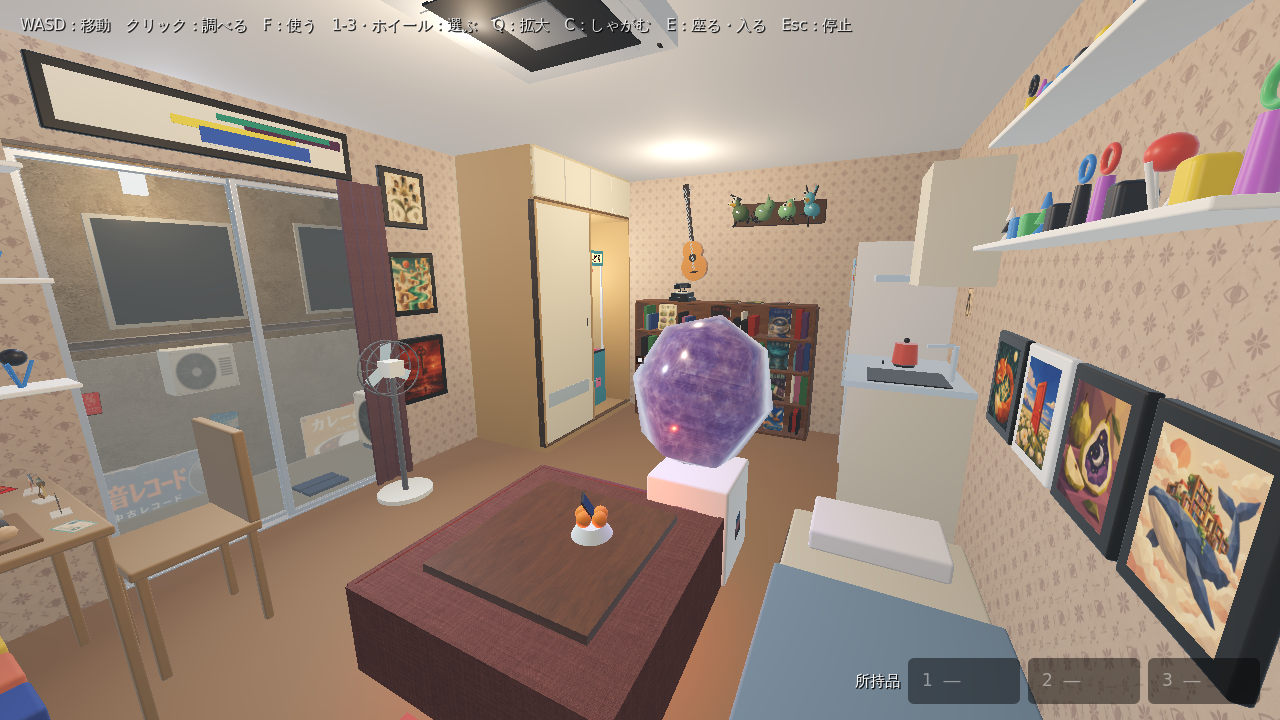
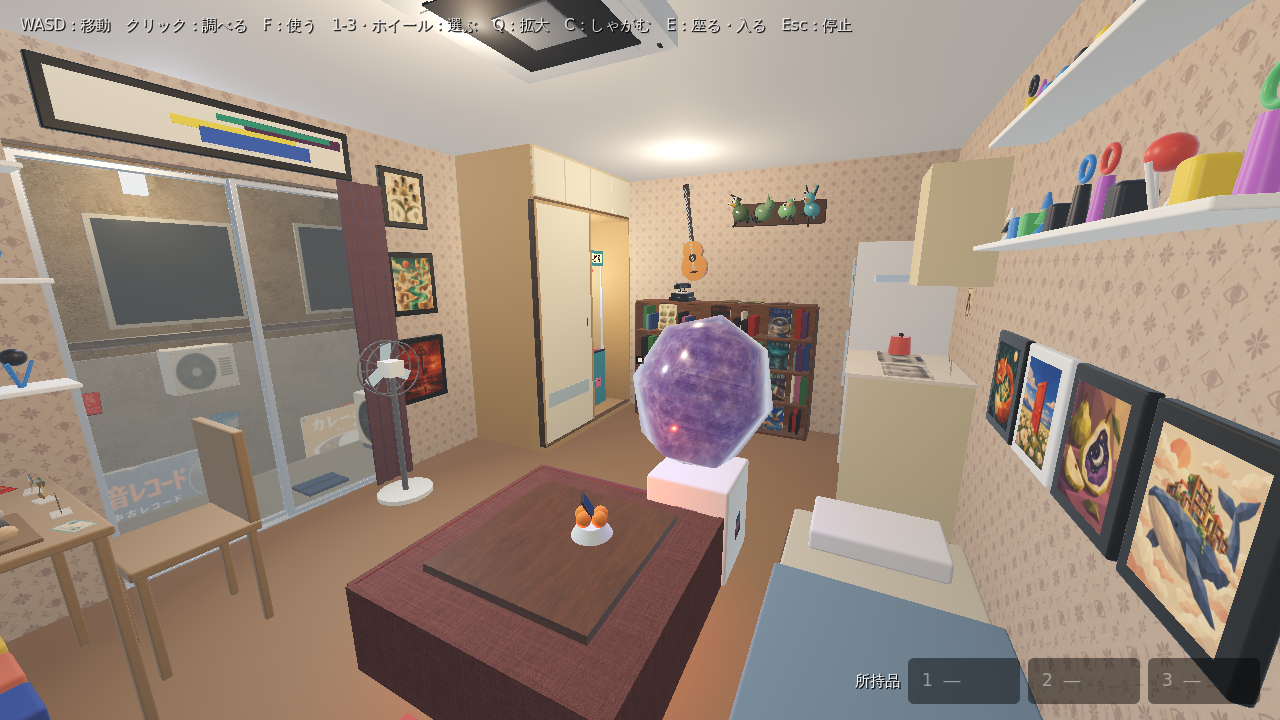
Kitchen uses the supplied cabinet, counter, sink, faucet and stove images
- cut four images along their outlines, seamless counter texture
- cabinet front, stone top, flat sink and stove top views, standing faucet; kettle on the left burner
- docs/assets.md, README, screenshots

Claude-Session: https://claude.ai/code/session_01UDrR2XgAMbQM64RRJRb4Lc

Changed region(s): [[0.6562, 0.4583, 0.7812, 0.7333], [0.6875, 0.2139, 0.8125, 0.3972]]

diff --git a/docs/assets.md b/docs/assets.md
@@ -337,3 +337,19 @@
   - 08 値札：絵は「TOY PLANET フィギュア（ねこ）¥1,200」で、指定の「用途不明、680円」でない。
   - 10 石のメモ：絵は猫の「すきなもの」リストで、指定の「石は増えた。棚は増えない。」でない。
 - 残りの 01・04・06（領収書。実在ロゴは除かれた）・09・11・12 は保管のみ。
+
+## キッチンの画像 `kitchen_*`（2026-10-13）
+
+出典：ユーザー作成の画像5枚（**生成 AI 使用**）。置き場所 `assets/textures/kitchen/`（既存を上書きしていない）。PNG・ミップマップ有効。
+
+| ファイル | 元の画像 | 加工 | 使っている所 |
+|---|---|---|---|
+| kitchen_cabinet | 引き出しと両開き扉の台の正面（背景は白、1210×1290） | 縁から白い背景をたどって透明にした（台の内側は残す）。長辺 1024px に縮小して外接矩形で切り、3px の余白（946×1008）。比率はそのまま | 台の前面に貼る（幅 0.844m × 高さ 0.9m。比率どおり） |
+| kitchen_counter | 石目の天板（1536×1024） | 768×512 に縮小し、半分ずらした像と中央重みで混ぜて継ぎ目をなくした | 台の天板（0.5m で繰り返す） |
+| kitchen_sink | 流しの真上からの絵（背景はクリーム色） | 縁から背景色（クリーム）をたどって透明にした（934×595） | 天板の左（西）に寝かせて貼る（0.38m 幅） |
+| kitchen_faucet | 蛇口の横からの絵（背景は透過または白） | 縁から背景をたどって透明にした（961×631） | 流しの奥に部屋側へ向けて立てる（0.17m 幅、両面描く） |
+| kitchen_stove | コンロの真上からの絵（背景は白） | 縁から白い背景をたどって透明にした（1011×668） | 天板の右（東）に寝かせて貼る（0.4m 幅）。左の火口の上にやかん |
+
+- 台・流し・コンロの寸法は絵の比率から決めた。調べる対象（kitchen_sink・kitchen_stove・fridge）と説明文は変えていない。水は出ず火もつかない（絵と装飾のみ）。
+- 切り出しの確認：緑の背景に重ねて、縁・取っ手・火口に背景の残りや欠けがないことを見た。蛇口は取っ手や吐水口の内側の白い光が穴にならないよう、縁から続く背景だけを抜いた。
+- 画像内の文字はない（確認済み）。
